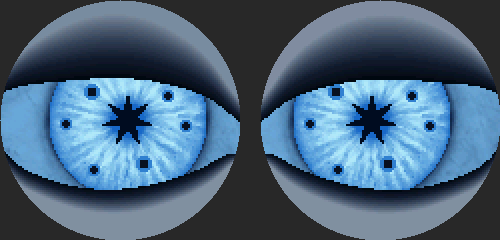
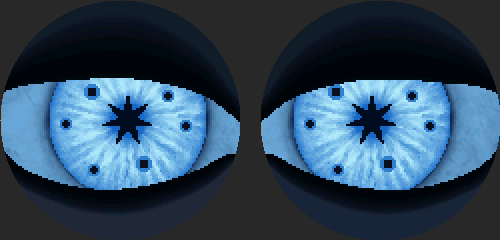
Boot eyes: darker Night King sockets
Scott saw the rig and asked for darker sockets. The old ramp was already
pale by margin 120, so on a fully open eye only a thin band near the lash
line read as a socket. The new ramp holds near-black to margin 60, stays
dark to 110, and reaches Frost's skin only at 255, so the whole visible
lid reads as a hollow. The edge is darker too (3,5,10 from 10,14,26).

Rejected: lowering the lid's skin color instead. The ramp ends on Frost's
skin on purpose (test_night_king_sockets_fade_to_frost), so the rim of the
orb matches Frost and the darkness stays a property of the socket.

Only Finish::Socket uses kSocket, so no other style changes.

(cherry picked from commit c06193deccc0635c8626eed4578c2759523f4891)

diff --git a/firmware/src/core/booteyes/LidPalette.h b/firmware/src/core/booteyes/LidPalette.h
@@ -72,8 +72,8 @@ static const Stop kChrome[] = {{6, {70, 76, 86}},     {12, {250, 252, 255}}, {20
 static const Stop kStainless[] = {{6, {112, 114, 116}},  {14, {214, 216, 217}}, {30, {176, 178, 180}},
                                   {60, {140, 142, 144}}, {130, {186, 188, 190}}, {255, {170, 172, 174}}};
 // Night King sockets: dark at the edge, fading out to Frost's skin
-static const Stop kSocket[] = {{6, {10, 14, 26}},    {34, {20, 28, 48}},    {70, {58, 70, 94}},
-                               {120, {128, 142, 162}}, {255, {165, 178, 192}}};
+static const Stop kSocket[] = {{6, {3, 5, 10}},       {60, {6, 9, 18}},      {110, {16, 22, 38}},
+                               {165, {52, 62, 84}},   {220, {120, 134, 156}}, {255, {165, 178, 192}}};
 // Brushing: each source row gets one of these brightness steps
 constexpr int kBrushLevels = 4;
 static const int8_t kBrush[kBrushLevels] = {-10, -3, 3, 10};
